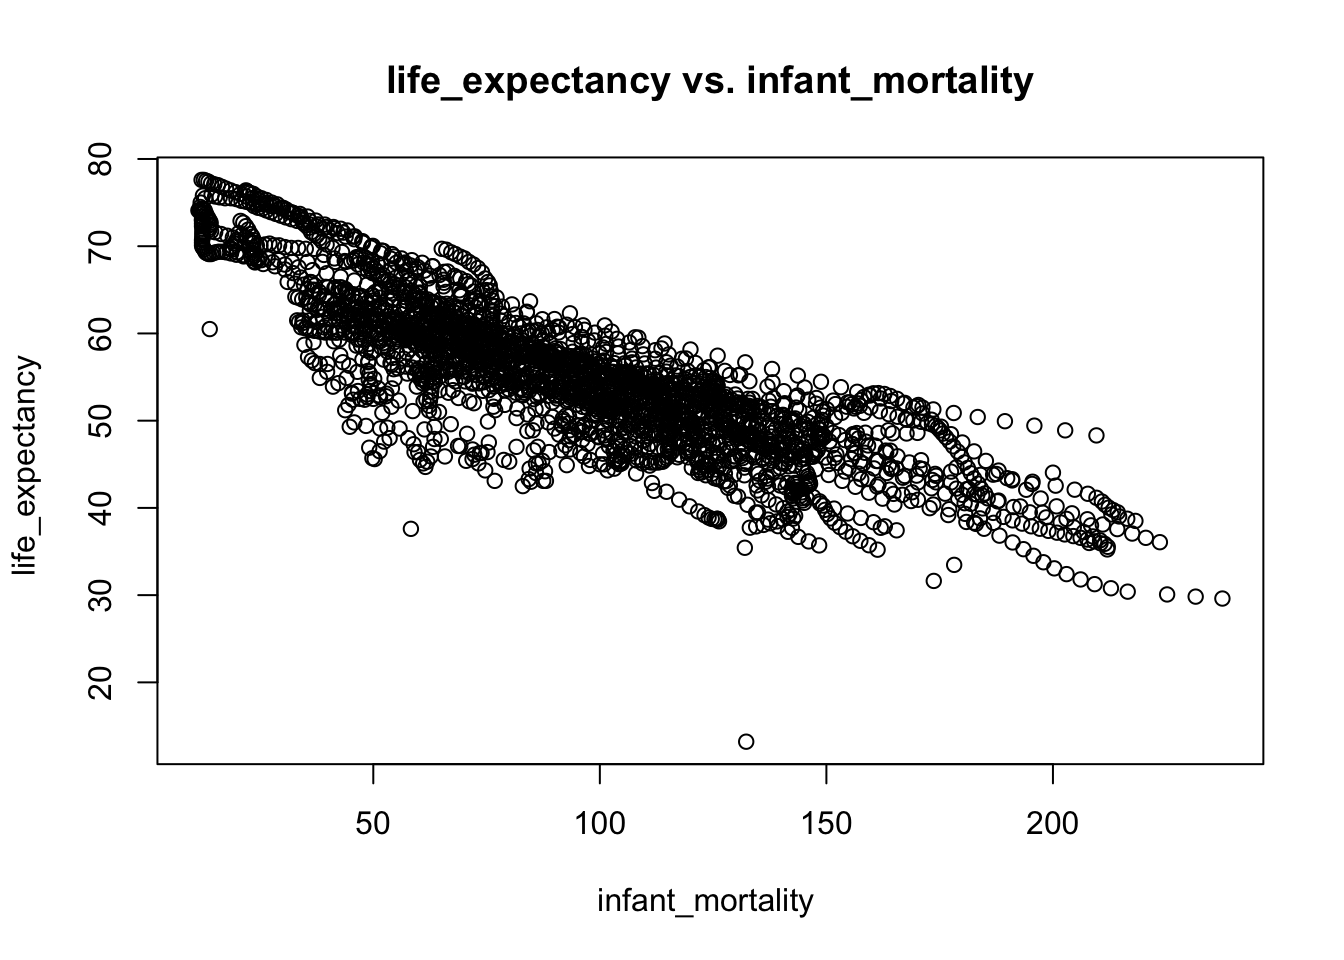
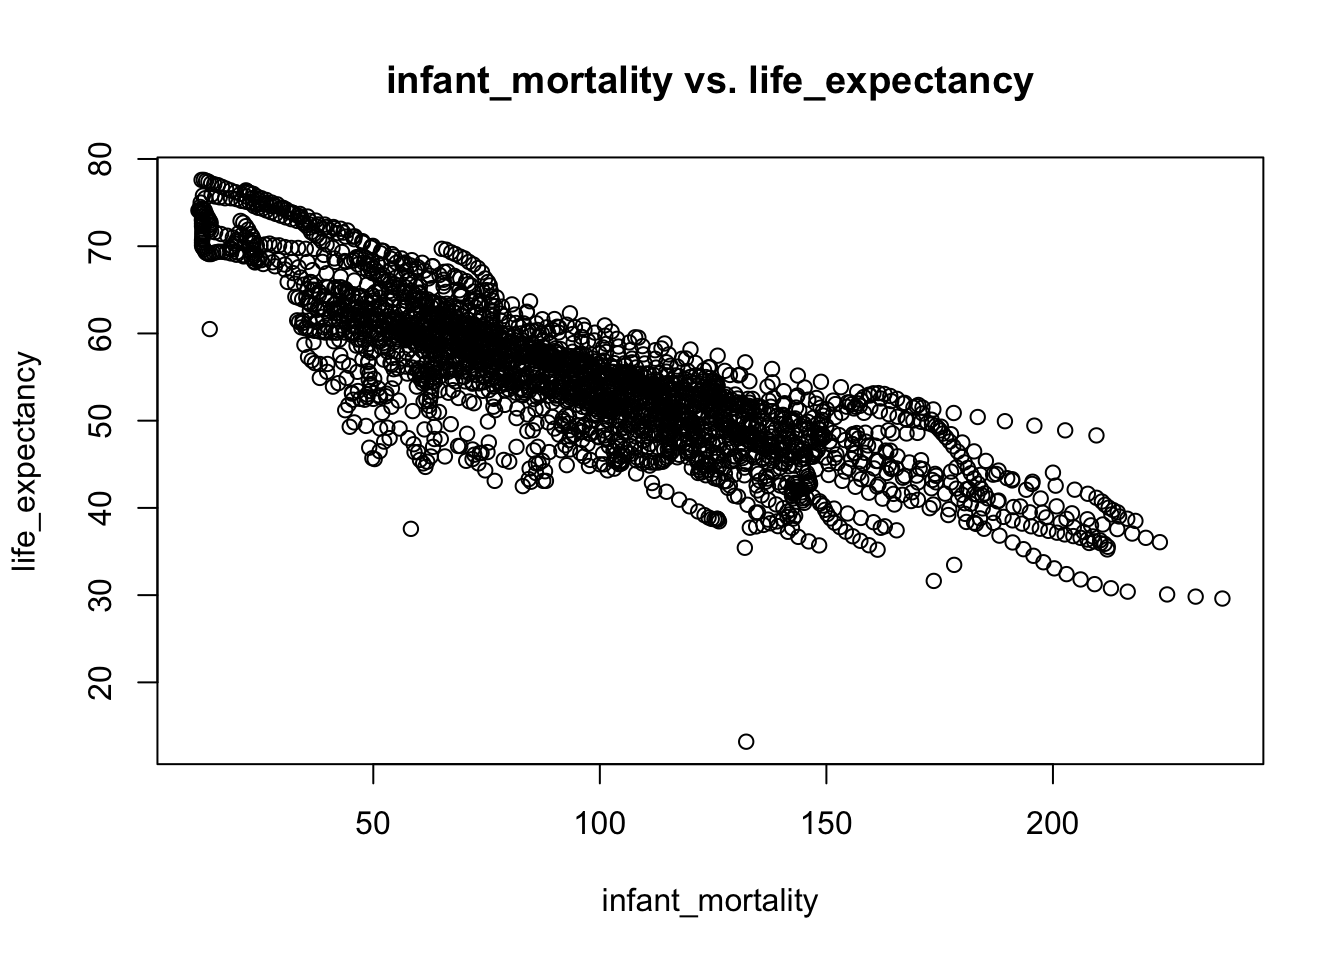
r code exercise attempt 2

Changed region(s): [[0.2812, 0.0625, 0.75, 0.125], [0.4375, 0.9062, 0.625, 0.9688], [0.0, 0.375, 0.0312, 0.5938]]

diff --git a/docs/rcoding.html b/docs/rcoding.html
@@ -42,6 +42,98 @@
     </style>
 
 
+<style type="text/css">
+  code {
+    white-space: pre;
+  }
+  .sourceCode {
+    overflow: visible;
+  }
+</style>
+<style type="text/css" data-origin="pandoc">
+a.sourceLine { display: inline-block; line-height: 1.25; }
+a.sourceLine { pointer-events: none; color: inherit; text-decoration: inherit; }
+a.sourceLine:empty { height: 1.2em; }
+.sourceCode { overflow: visible; }
+code.sourceCode { white-space: pre; position: relative; }
+div.sourceCode { margin: 1em 0; }
+pre.sourceCode { margin: 0; }
+@media screen {
+div.sourceCode { overflow: auto; }
+}
+@media print {
+code.sourceCode { white-space: pre-wrap; }
+a.sourceLine { text-indent: -1em; padding-left: 1em; }
+}
+pre.numberSource a.sourceLine
+  { position: relative; left: -4em; }
+pre.numberSource a.sourceLine::before
+  { content: attr(data-line-number);
+    position: relative; left: -1em; text-align: right; vertical-align: baseline;
+    border: none; pointer-events: all; display: inline-block;
+    -webkit-touch-callout: none; -webkit-user-select: none;
+    -khtml-user-select: none; -moz-user-select: none;
+    -ms-user-select: none; user-select: none;
+    padding: 0 4px; width: 4em;
+  }
+pre.numberSource { margin-left: 3em;  padding-left: 4px; }
+div.sourceCode
+  { color: #cccccc; background-color: #303030; }
+@media screen {
+a.sourceLine::before { text-decoration: underline; }
+}
+code span.al { color: #ffcfaf; } /* Alert */
+code span.an { color: #7f9f7f; font-weight: bold; } /* Annotation */
+code span.at { } /* Attribute */
+code span.bn { color: #dca3a3; } /* BaseN */
+code span.bu { } /* BuiltIn */
+code span.cf { color: #f0dfaf; } /* ControlFlow */
+code span.ch { color: #dca3a3; } /* Char */
+code span.cn { color: #dca3a3; font-weight: bold; } /* Constant */
+code span.co { color: #7f9f7f; } /* Comment */
+code span.cv { color: #7f9f7f; font-weight: bold; } /* CommentVar */
+code span.do { color: #7f9f7f; } /* Documentation */
+code span.dt { color: #dfdfbf; } /* DataType */
+code span.dv { color: #dcdccc; } /* DecVal */
+code span.er { color: #c3bf9f; } /* Error */
+code span.ex { } /* Extension */
+code span.fl { color: #c0bed1; } /* Float */
+code span.fu { color: #efef8f; } /* Function */
+code span.im { } /* Import */
+code span.in { color: #7f9f7f; font-weight: bold; } /* Information */
+code span.kw { color: #f0dfaf; } /* Keyword */
+code span.op { color: #f0efd0; } /* Operator */
+code span.ot { color: #efef8f; } /* Other */
+code span.pp { color: #ffcfaf; font-weight: bold; } /* Preprocessor */
+code span.sc { color: #dca3a3; } /* SpecialChar */
+code span.ss { color: #cc9393; } /* SpecialString */
+code span.st { color: #cc9393; } /* String */
+code span.va { } /* Variable */
+code span.vs { color: #cc9393; } /* VerbatimString */
+code span.wa { color: #7f9f7f; font-weight: bold; } /* Warning */
+
+</style>
+<script>
+// apply pandoc div.sourceCode style to pre.sourceCode instead
+(function() {
+  var sheets = document.styleSheets;
+  for (var i = 0; i < sheets.length; i++) {
+    if (sheets[i].ownerNode.dataset["origin"] !== "pandoc") continue;
+    try { var rules = sheets[i].cssRules; } catch (e) { continue; }
+    for (var j = 0; j < rules.length; j++) {
+      var rule = rules[j];
+      // check if there is a div.sourceCode rule
+      if (rule.type !== rule.STYLE_RULE || rule.selectorText !== "div.sourceCode") continue;
+      var style = rule.style.cssText;
+      // check if color or background-color is set
+      if (rule.style.color === '' && rule.style.backgroundColor === '') continue;
+      // replace div.sourceCode by a pre.sourceCode rule
+      sheets[i].deleteRule(j);
+      sheets[i].insertRule('pre.sourceCode{' + style + '}', j);
+    }
+  }
+})();
+</script>
 
 
 
@@ -274,6 +366,247 @@ $(document).ready(function () {
 
 
 <p>This will contain the future R coding exercise.</p>
+<div class="sourceCode" id="cb1"><pre class="sourceCode r"><code class="sourceCode r"><a class="sourceLine" id="cb1-1" data-line-number="1"><span class="co">#load dslabs package</span></a>
+<a class="sourceLine" id="cb1-2" data-line-number="2"><span class="kw">library</span>(<span class="st">&quot;dslabs&quot;</span>)</a>
+<a class="sourceLine" id="cb1-3" data-line-number="3"><span class="co">#look at help file for gapminder data</span></a>
+<a class="sourceLine" id="cb1-4" data-line-number="4"><span class="kw">help</span>(gapminder)</a>
+<a class="sourceLine" id="cb1-5" data-line-number="5"><span class="co">#get an overview of data structure</span></a>
+<a class="sourceLine" id="cb1-6" data-line-number="6"><span class="kw">str</span>(gapminder)</a></code></pre></div>
+<pre><code>## &#39;data.frame&#39;:    10545 obs. of  9 variables:
+##  $ country         : Factor w/ 185 levels &quot;Albania&quot;,&quot;Algeria&quot;,..: 1 2 3 4 5 6 7 8 9 10 ...
+##  $ year            : int  1960 1960 1960 1960 1960 1960 1960 1960 1960 1960 ...
+##  $ infant_mortality: num  115.4 148.2 208 NA 59.9 ...
+##  $ life_expectancy : num  62.9 47.5 36 63 65.4 ...
+##  $ fertility       : num  6.19 7.65 7.32 4.43 3.11 4.55 4.82 3.45 2.7 5.57 ...
+##  $ population      : num  1636054 11124892 5270844 54681 20619075 ...
+##  $ gdp             : num  NA 1.38e+10 NA NA 1.08e+11 ...
+##  $ continent       : Factor w/ 5 levels &quot;Africa&quot;,&quot;Americas&quot;,..: 4 1 1 2 2 3 2 5 4 3 ...
+##  $ region          : Factor w/ 22 levels &quot;Australia and New Zealand&quot;,..: 19 11 10 2 15 21 2 1 22 21 ...</code></pre>
+<div class="sourceCode" id="cb3"><pre class="sourceCode r"><code class="sourceCode r"><a class="sourceLine" id="cb3-1" data-line-number="1"><span class="co">#get a summary of data</span></a>
+<a class="sourceLine" id="cb3-2" data-line-number="2"><span class="kw">summary</span>(gapminder)</a></code></pre></div>
+<pre><code>##                 country           year      infant_mortality life_expectancy
+##  Albania            :   57   Min.   :1960   Min.   :  1.50   Min.   :13.20  
+##  Algeria            :   57   1st Qu.:1974   1st Qu.: 16.00   1st Qu.:57.50  
+##  Angola             :   57   Median :1988   Median : 41.50   Median :67.54  
+##  Antigua and Barbuda:   57   Mean   :1988   Mean   : 55.31   Mean   :64.81  
+##  Argentina          :   57   3rd Qu.:2002   3rd Qu.: 85.10   3rd Qu.:73.00  
+##  Armenia            :   57   Max.   :2016   Max.   :276.90   Max.   :83.90  
+##  (Other)            :10203                  NA&#39;s   :1453                    
+##    fertility       population             gdp               continent   
+##  Min.   :0.840   Min.   :3.124e+04   Min.   :4.040e+07   Africa  :2907  
+##  1st Qu.:2.200   1st Qu.:1.333e+06   1st Qu.:1.846e+09   Americas:2052  
+##  Median :3.750   Median :5.009e+06   Median :7.794e+09   Asia    :2679  
+##  Mean   :4.084   Mean   :2.701e+07   Mean   :1.480e+11   Europe  :2223  
+##  3rd Qu.:6.000   3rd Qu.:1.523e+07   3rd Qu.:5.540e+10   Oceania : 684  
+##  Max.   :9.220   Max.   :1.376e+09   Max.   :1.174e+13                  
+##  NA&#39;s   :187     NA&#39;s   :185         NA&#39;s   :2972                       
+##              region    
+##  Western Asia   :1026  
+##  Eastern Africa : 912  
+##  Western Africa : 912  
+##  Caribbean      : 741  
+##  South America  : 684  
+##  Southern Europe: 684  
+##  (Other)        :5586</code></pre>
+<div class="sourceCode" id="cb5"><pre class="sourceCode r"><code class="sourceCode r"><a class="sourceLine" id="cb5-1" data-line-number="1"><span class="co">#determine the type of object gapminder is</span></a>
+<a class="sourceLine" id="cb5-2" data-line-number="2"><span class="kw">class</span>(gapminder)</a></code></pre></div>
+<pre><code>## [1] &quot;data.frame&quot;</code></pre>
+<div class="sourceCode" id="cb7"><pre class="sourceCode r"><code class="sourceCode r"><a class="sourceLine" id="cb7-1" data-line-number="1">africadata =<span class="st"> </span>gapminder[gapminder<span class="op">$</span>continent<span class="op">==</span><span class="st">&#39;Africa&#39;</span>,]</a>
+<a class="sourceLine" id="cb7-2" data-line-number="2"><span class="kw">str</span>(africadata)</a></code></pre></div>
+<pre><code>## &#39;data.frame&#39;:    2907 obs. of  9 variables:
+##  $ country         : Factor w/ 185 levels &quot;Albania&quot;,&quot;Algeria&quot;,..: 2 3 18 22 26 27 29 31 32 33 ...
+##  $ year            : int  1960 1960 1960 1960 1960 1960 1960 1960 1960 1960 ...
+##  $ infant_mortality: num  148 208 187 116 161 ...
+##  $ life_expectancy : num  47.5 36 38.3 50.3 35.2 ...
+##  $ fertility       : num  7.65 7.32 6.28 6.62 6.29 6.95 5.65 6.89 5.84 6.25 ...
+##  $ population      : num  11124892 5270844 2431620 524029 4829291 ...
+##  $ gdp             : num  1.38e+10 NA 6.22e+08 1.24e+08 5.97e+08 ...
+##  $ continent       : Factor w/ 5 levels &quot;Africa&quot;,&quot;Americas&quot;,..: 1 1 1 1 1 1 1 1 1 1 ...
+##  $ region          : Factor w/ 22 levels &quot;Australia and New Zealand&quot;,..: 11 10 20 17 20 5 10 20 10 10 ...</code></pre>
+<div class="sourceCode" id="cb9"><pre class="sourceCode r"><code class="sourceCode r"><a class="sourceLine" id="cb9-1" data-line-number="1"><span class="kw">summary</span>(africadata)</a></code></pre></div>
+<pre><code>##          country          year      infant_mortality life_expectancy
+##  Algeria     :  57   Min.   :1960   Min.   : 11.40   Min.   :13.20  
+##  Angola      :  57   1st Qu.:1974   1st Qu.: 62.20   1st Qu.:48.23  
+##  Benin       :  57   Median :1988   Median : 93.40   Median :53.98  
+##  Botswana    :  57   Mean   :1988   Mean   : 95.12   Mean   :54.38  
+##  Burkina Faso:  57   3rd Qu.:2002   3rd Qu.:124.70   3rd Qu.:60.10  
+##  Burundi     :  57   Max.   :2016   Max.   :237.40   Max.   :77.60  
+##  (Other)     :2565                  NA&#39;s   :226                     
+##    fertility       population             gdp               continent   
+##  Min.   :1.500   Min.   :    41538   Min.   :4.659e+07   Africa  :2907  
+##  1st Qu.:5.160   1st Qu.:  1605232   1st Qu.:8.373e+08   Americas:   0  
+##  Median :6.160   Median :  5570982   Median :2.448e+09   Asia    :   0  
+##  Mean   :5.851   Mean   : 12235961   Mean   :9.346e+09   Europe  :   0  
+##  3rd Qu.:6.860   3rd Qu.: 13888152   3rd Qu.:6.552e+09   Oceania :   0  
+##  Max.   :8.450   Max.   :182201962   Max.   :1.935e+11                  
+##  NA&#39;s   :51      NA&#39;s   :51          NA&#39;s   :637                        
+##                        region   
+##  Eastern Africa           :912  
+##  Western Africa           :912  
+##  Middle Africa            :456  
+##  Northern Africa          :342  
+##  Southern Africa          :285  
+##  Australia and New Zealand:  0  
+##  (Other)                  :  0</code></pre>
+<div class="sourceCode" id="cb11"><pre class="sourceCode r"><code class="sourceCode r"><a class="sourceLine" id="cb11-1" data-line-number="1">s1 =<span class="st"> </span>africadata[,<span class="kw">c</span>(<span class="st">&#39;infant_mortality&#39;</span>,<span class="st">&#39;life_expectancy&#39;</span>)]</a>
+<a class="sourceLine" id="cb11-2" data-line-number="2"><span class="kw">str</span>(s1)</a></code></pre></div>
+<pre><code>## &#39;data.frame&#39;:    2907 obs. of  2 variables:
+##  $ infant_mortality: num  148 208 187 116 161 ...
+##  $ life_expectancy : num  47.5 36 38.3 50.3 35.2 ...</code></pre>
+<div class="sourceCode" id="cb13"><pre class="sourceCode r"><code class="sourceCode r"><a class="sourceLine" id="cb13-1" data-line-number="1"><span class="kw">summary</span>(s1)</a></code></pre></div>
+<pre><code>##  infant_mortality life_expectancy
+##  Min.   : 11.40   Min.   :13.20  
+##  1st Qu.: 62.20   1st Qu.:48.23  
+##  Median : 93.40   Median :53.98  
+##  Mean   : 95.12   Mean   :54.38  
+##  3rd Qu.:124.70   3rd Qu.:60.10  
+##  Max.   :237.40   Max.   :77.60  
+##  NA&#39;s   :226</code></pre>
+<div class="sourceCode" id="cb15"><pre class="sourceCode r"><code class="sourceCode r"><a class="sourceLine" id="cb15-1" data-line-number="1">s2 =<span class="st"> </span>africadata[,<span class="kw">c</span>(<span class="st">&#39;population&#39;</span>,<span class="st">&#39;life_expectancy&#39;</span>)]</a>
+<a class="sourceLine" id="cb15-2" data-line-number="2"><span class="kw">str</span>(s2)</a></code></pre></div>
+<pre><code>## &#39;data.frame&#39;:    2907 obs. of  2 variables:
+##  $ population     : num  11124892 5270844 2431620 524029 4829291 ...
+##  $ life_expectancy: num  47.5 36 38.3 50.3 35.2 ...</code></pre>
+<div class="sourceCode" id="cb17"><pre class="sourceCode r"><code class="sourceCode r"><a class="sourceLine" id="cb17-1" data-line-number="1"><span class="kw">summary</span>(s2)</a></code></pre></div>
+<pre><code>##    population        life_expectancy
+##  Min.   :    41538   Min.   :13.20  
+##  1st Qu.:  1605232   1st Qu.:48.23  
+##  Median :  5570982   Median :53.98  
+##  Mean   : 12235961   Mean   :54.38  
+##  3rd Qu.: 13888152   3rd Qu.:60.10  
+##  Max.   :182201962   Max.   :77.60  
+##  NA&#39;s   :51</code></pre>
+<div class="sourceCode" id="cb19"><pre class="sourceCode r"><code class="sourceCode r"><a class="sourceLine" id="cb19-1" data-line-number="1">s2<span class="op">$</span>log_pop =<span class="st"> </span><span class="kw">log10</span>(s2<span class="op">$</span>population)</a>
+<a class="sourceLine" id="cb19-2" data-line-number="2"></a>
+<a class="sourceLine" id="cb19-3" data-line-number="3"><span class="kw">attach</span>(s1)</a>
+<a class="sourceLine" id="cb19-4" data-line-number="4"><span class="kw">plot</span>(infant_mortality,life_expectancy,<span class="dt">main=</span><span class="st">&quot;infant_mortality vs. life_expectancy&quot;</span>)</a></code></pre></div>
+<p><img src="rcoding_files/figure-html/unnamed-chunk-1-1.png" width="672" /></p>
+<div class="sourceCode" id="cb20"><pre class="sourceCode r"><code class="sourceCode r"><a class="sourceLine" id="cb20-1" data-line-number="1"><span class="kw">detach</span>(s1)</a>
+<a class="sourceLine" id="cb20-2" data-line-number="2"></a>
+<a class="sourceLine" id="cb20-3" data-line-number="3"><span class="kw">attach</span>(s2)</a>
+<a class="sourceLine" id="cb20-4" data-line-number="4"><span class="kw">plot</span>(log_pop,life_expectancy,<span class="dt">main=</span><span class="st">&quot;log10_population vs. life_expectancy&quot;</span>)</a></code></pre></div>
+<p><img src="rcoding_files/figure-html/unnamed-chunk-1-2.png" width="672" /></p>
+<div class="sourceCode" id="cb21"><pre class="sourceCode r"><code class="sourceCode r"><a class="sourceLine" id="cb21-1" data-line-number="1"><span class="kw">detach</span>(s2)</a>
+<a class="sourceLine" id="cb21-2" data-line-number="2"><span class="co"># I think each streak represents an African country&#39;s life_expectancy over the past decades. As the time went by, the pupulation grew bigger, and life expectancy went up as the quality of life improved.</span></a>
+<a class="sourceLine" id="cb21-3" data-line-number="3"></a>
+<a class="sourceLine" id="cb21-4" data-line-number="4">data_<span class="dv">2000</span> =<span class="st"> </span>africadata[africadata<span class="op">$</span>year<span class="op">==</span><span class="dv">2000</span>,]</a>
+<a class="sourceLine" id="cb21-5" data-line-number="5"><span class="kw">str</span>(data_<span class="dv">2000</span>)</a></code></pre></div>
+<pre><code>## &#39;data.frame&#39;:    51 obs. of  9 variables:
+##  $ country         : Factor w/ 185 levels &quot;Albania&quot;,&quot;Algeria&quot;,..: 2 3 18 22 26 27 29 31 32 33 ...
+##  $ year            : int  2000 2000 2000 2000 2000 2000 2000 2000 2000 2000 ...
+##  $ infant_mortality: num  33.9 128.3 89.3 52.4 96.2 ...
+##  $ life_expectancy : num  73.3 52.3 57.2 47.6 52.6 46.7 54.3 68.4 45.3 51.5 ...
+##  $ fertility       : num  2.51 6.84 5.98 3.41 6.59 7.06 5.62 3.7 5.45 7.35 ...
+##  $ population      : num  31183658 15058638 6949366 1736579 11607944 ...
+##  $ gdp             : num  5.48e+10 9.13e+09 2.25e+09 5.63e+09 2.61e+09 ...
+##  $ continent       : Factor w/ 5 levels &quot;Africa&quot;,&quot;Americas&quot;,..: 1 1 1 1 1 1 1 1 1 1 ...
+##  $ region          : Factor w/ 22 levels &quot;Australia and New Zealand&quot;,..: 11 10 20 17 20 5 10 20 10 10 ...</code></pre>
+<div class="sourceCode" id="cb23"><pre class="sourceCode r"><code class="sourceCode r"><a class="sourceLine" id="cb23-1" data-line-number="1"><span class="kw">summary</span>(data_<span class="dv">2000</span>)</a></code></pre></div>
+<pre><code>##          country        year      infant_mortality life_expectancy
+##  Algeria     : 1   Min.   :2000   Min.   : 12.30   Min.   :37.60  
+##  Angola      : 1   1st Qu.:2000   1st Qu.: 60.80   1st Qu.:51.75  
+##  Benin       : 1   Median :2000   Median : 80.30   Median :54.30  
+##  Botswana    : 1   Mean   :2000   Mean   : 78.93   Mean   :56.36  
+##  Burkina Faso: 1   3rd Qu.:2000   3rd Qu.:103.30   3rd Qu.:60.00  
+##  Burundi     : 1   Max.   :2000   Max.   :143.30   Max.   :75.00  
+##  (Other)     :45                                                  
+##    fertility       population             gdp               continent 
+##  Min.   :1.990   Min.   :    81154   Min.   :2.019e+08   Africa  :51  
+##  1st Qu.:4.150   1st Qu.:  2304687   1st Qu.:1.274e+09   Americas: 0  
+##  Median :5.550   Median :  8799165   Median :3.238e+09   Asia    : 0  
+##  Mean   :5.156   Mean   : 15659800   Mean   :1.155e+10   Europe  : 0  
+##  3rd Qu.:5.960   3rd Qu.: 17391242   3rd Qu.:8.654e+09   Oceania : 0  
+##  Max.   :7.730   Max.   :122876723   Max.   :1.329e+11                
+##                                                                       
+##                        region  
+##  Eastern Africa           :16  
+##  Western Africa           :16  
+##  Middle Africa            : 8  
+##  Northern Africa          : 6  
+##  Southern Africa          : 5  
+##  Australia and New Zealand: 0  
+##  (Other)                  : 0</code></pre>
+<div class="sourceCode" id="cb25"><pre class="sourceCode r"><code class="sourceCode r"><a class="sourceLine" id="cb25-1" data-line-number="1">s3 =<span class="st"> </span>data_<span class="dv">2000</span>[,<span class="kw">c</span>(<span class="st">&#39;infant_mortality&#39;</span>,<span class="st">&#39;life_expectancy&#39;</span>)]</a>
+<a class="sourceLine" id="cb25-2" data-line-number="2"><span class="kw">str</span>(s3)</a></code></pre></div>
+<pre><code>## &#39;data.frame&#39;:    51 obs. of  2 variables:
+##  $ infant_mortality: num  33.9 128.3 89.3 52.4 96.2 ...
+##  $ life_expectancy : num  73.3 52.3 57.2 47.6 52.6 46.7 54.3 68.4 45.3 51.5 ...</code></pre>
+<div class="sourceCode" id="cb27"><pre class="sourceCode r"><code class="sourceCode r"><a class="sourceLine" id="cb27-1" data-line-number="1"><span class="kw">summary</span>(s3)</a></code></pre></div>
+<pre><code>##  infant_mortality life_expectancy
+##  Min.   : 12.30   Min.   :37.60  
+##  1st Qu.: 60.80   1st Qu.:51.75  
+##  Median : 80.30   Median :54.30  
+##  Mean   : 78.93   Mean   :56.36  
+##  3rd Qu.:103.30   3rd Qu.:60.00  
+##  Max.   :143.30   Max.   :75.00</code></pre>
+<div class="sourceCode" id="cb29"><pre class="sourceCode r"><code class="sourceCode r"><a class="sourceLine" id="cb29-1" data-line-number="1">s4 =<span class="st"> </span>data_<span class="dv">2000</span>[,<span class="kw">c</span>(<span class="st">&#39;population&#39;</span>,<span class="st">&#39;life_expectancy&#39;</span>)]</a>
+<a class="sourceLine" id="cb29-2" data-line-number="2"><span class="kw">str</span>(s4)</a></code></pre></div>
+<pre><code>## &#39;data.frame&#39;:    51 obs. of  2 variables:
+##  $ population     : num  31183658 15058638 6949366 1736579 11607944 ...
+##  $ life_expectancy: num  73.3 52.3 57.2 47.6 52.6 46.7 54.3 68.4 45.3 51.5 ...</code></pre>
+<div class="sourceCode" id="cb31"><pre class="sourceCode r"><code class="sourceCode r"><a class="sourceLine" id="cb31-1" data-line-number="1"><span class="kw">summary</span>(s4)</a></code></pre></div>
+<pre><code>##    population        life_expectancy
+##  Min.   :    81154   Min.   :37.60  
+##  1st Qu.:  2304687   1st Qu.:51.75  
+##  Median :  8799165   Median :54.30  
+##  Mean   : 15659800   Mean   :56.36  
+##  3rd Qu.: 17391242   3rd Qu.:60.00  
+##  Max.   :122876723   Max.   :75.00</code></pre>
+<div class="sourceCode" id="cb33"><pre class="sourceCode r"><code class="sourceCode r"><a class="sourceLine" id="cb33-1" data-line-number="1">s4<span class="op">$</span>log_pop =<span class="st"> </span><span class="kw">log10</span>(s4<span class="op">$</span>population)</a>
+<a class="sourceLine" id="cb33-2" data-line-number="2"></a>
+<a class="sourceLine" id="cb33-3" data-line-number="3"><span class="kw">attach</span>(s3)</a>
+<a class="sourceLine" id="cb33-4" data-line-number="4"><span class="kw">plot</span>(infant_mortality,life_expectancy,<span class="dt">main=</span><span class="st">&quot;infant_mortality vs. life_expectancy&quot;</span>)</a></code></pre></div>
+<p><img src="rcoding_files/figure-html/unnamed-chunk-1-3.png" width="672" /></p>
+<div class="sourceCode" id="cb34"><pre class="sourceCode r"><code class="sourceCode r"><a class="sourceLine" id="cb34-1" data-line-number="1"><span class="kw">detach</span>(s3)</a>
+<a class="sourceLine" id="cb34-2" data-line-number="2"></a>
+<a class="sourceLine" id="cb34-3" data-line-number="3"><span class="kw">attach</span>(s4)</a>
+<a class="sourceLine" id="cb34-4" data-line-number="4"><span class="kw">plot</span>(log_pop,life_expectancy,<span class="dt">main=</span><span class="st">&quot;log10_population vs. life_expectancy&quot;</span>)</a></code></pre></div>
+<p><img src="rcoding_files/figure-html/unnamed-chunk-1-4.png" width="672" /></p>
+<div class="sourceCode" id="cb35"><pre class="sourceCode r"><code class="sourceCode r"><a class="sourceLine" id="cb35-1" data-line-number="1"><span class="kw">detach</span>(s4)</a>
+<a class="sourceLine" id="cb35-2" data-line-number="2"></a>
+<a class="sourceLine" id="cb35-3" data-line-number="3">fit1 &lt;-<span class="st"> </span><span class="kw">lm</span>(life_expectancy <span class="op">~</span><span class="st"> </span>infant_mortality, <span class="dt">data=</span>s3)</a>
+<a class="sourceLine" id="cb35-4" data-line-number="4"><span class="kw">summary</span>(fit1)</a></code></pre></div>
+<pre><code>## 
+## Call:
+## lm(formula = life_expectancy ~ infant_mortality, data = s3)
+## 
+## Residuals:
+##      Min       1Q   Median       3Q      Max 
+## -22.6651  -3.7087   0.9914   4.0408   8.6817 
+## 
+## Coefficients:
+##                  Estimate Std. Error t value Pr(&gt;|t|)    
+## (Intercept)      71.29331    2.42611  29.386  &lt; 2e-16 ***
+## infant_mortality -0.18916    0.02869  -6.594 2.83e-08 ***
+## ---
+## Signif. codes:  0 &#39;***&#39; 0.001 &#39;**&#39; 0.01 &#39;*&#39; 0.05 &#39;.&#39; 0.1 &#39; &#39; 1
+## 
+## Residual standard error: 6.221 on 49 degrees of freedom
+## Multiple R-squared:  0.4701, Adjusted R-squared:  0.4593 
+## F-statistic: 43.48 on 1 and 49 DF,  p-value: 2.826e-08</code></pre>
+<div class="sourceCode" id="cb37"><pre class="sourceCode r"><code class="sourceCode r"><a class="sourceLine" id="cb37-1" data-line-number="1"><span class="co"># since the p_value is close to 0, infant_mortality and life_expectancy are highly associated</span></a>
+<a class="sourceLine" id="cb37-2" data-line-number="2"></a>
+<a class="sourceLine" id="cb37-3" data-line-number="3">fit2 &lt;-<span class="st"> </span><span class="kw">lm</span>(life_expectancy <span class="op">~</span><span class="st"> </span>log_pop, <span class="dt">data=</span>s4)</a>
+<a class="sourceLine" id="cb37-4" data-line-number="4"><span class="kw">summary</span>(fit2)</a></code></pre></div>
+<pre><code>## 
+## Call:
+## lm(formula = life_expectancy ~ log_pop, data = s4)
+## 
+## Residuals:
+##     Min      1Q  Median      3Q     Max 
+## -19.113  -4.809  -1.554   3.907  18.863 
+## 
+## Coefficients:
+##             Estimate Std. Error t value Pr(&gt;|t|)    
+## (Intercept)   65.324     12.520   5.217 3.65e-06 ***
+## log_pop       -1.315      1.829  -0.719    0.476    
+## ---
+## Signif. codes:  0 &#39;***&#39; 0.001 &#39;**&#39; 0.01 &#39;*&#39; 0.05 &#39;.&#39; 0.1 &#39; &#39; 1
+## 
+## Residual standard error: 8.502 on 49 degrees of freedom
+## Multiple R-squared:  0.01044,    Adjusted R-squared:  -0.009755 
+## F-statistic: 0.517 on 1 and 49 DF,  p-value: 0.4755</code></pre>
+<div class="sourceCode" id="cb39"><pre class="sourceCode r"><code class="sourceCode r"><a class="sourceLine" id="cb39-1" data-line-number="1"><span class="co"># since the p_value is much greater than 0, population and life_expectancy are not much associated</span></a></code></pre></div>
 
 
 
